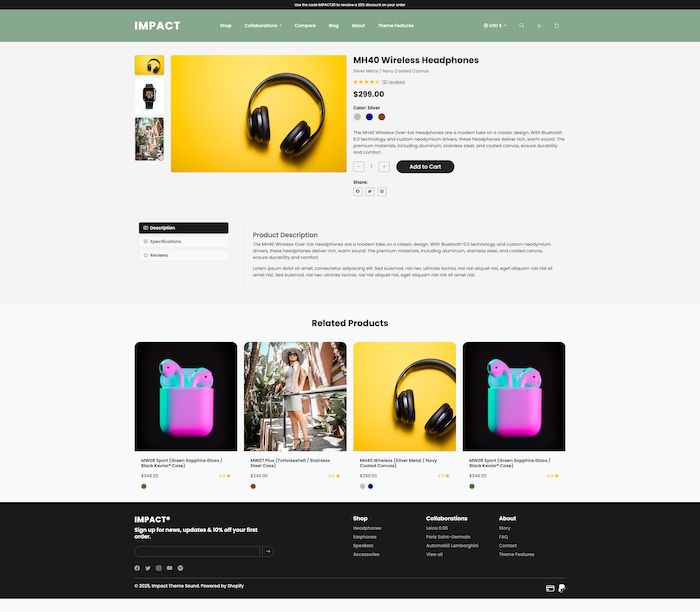
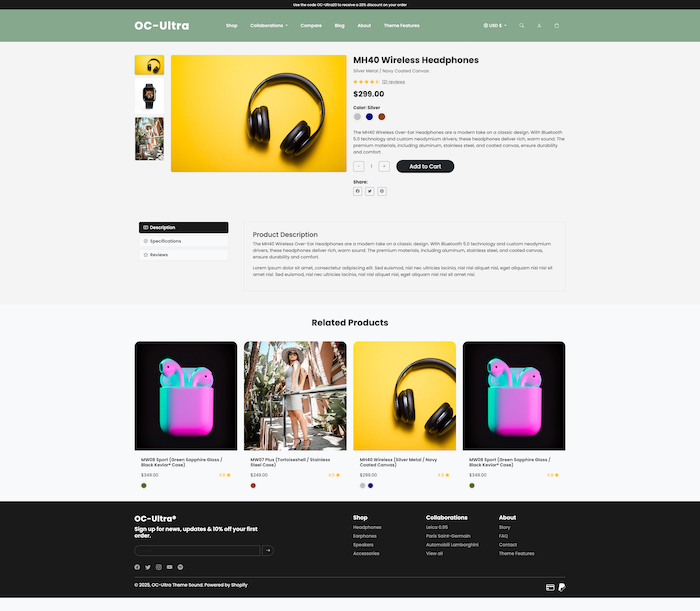
images updated , oc ultra mentioned

diff --git a/category.html b/category.html
@@ -3,7 +3,7 @@
 <head>
     <meta charset="UTF-8">
     <meta name="viewport" content="width=device-width, initial-scale=1.0">
-    <title>Impact - Category</title>
+    <title>OC-Ultra - Category</title>
     <link href="https://cdn.jsdelivr.net/npm/bootstrap@5.3.0-alpha1/dist/css/bootstrap.min.css" rel="stylesheet">
     <link rel="stylesheet" href="https://cdn.jsdelivr.net/npm/bootstrap-icons@1.10.5/font/bootstrap-icons.css">
     <link rel="stylesheet" href="css/style.css">
@@ -12,14 +12,14 @@
 
     <!-- Top Bar -->
     <div class="top-bar text-center text-white py-2">
-        <p class="mb-0">Use the code IMPACT20 to receive a 20% discount on your order</p>
+        <p class="mb-0">Use the code OC-Ultra20 to receive a 20% discount on your order</p>
     </div>
 
     <div class="hero-container">
         <!-- Header -->
         <header class="navbar navbar-expand-lg navbar-dark">
             <div class="container">
-                <a class="navbar-brand" href="#">IMPACT</a>
+                <a class="navbar-brand" href="#">OC-Ultra</a>
                 <button class="navbar-toggler" type="button" data-bs-toggle="collapse" data-bs-target="#navbarNav" aria-controls="navbarNav" aria-expanded="false" aria-label="Toggle navigation">
                     <span class="navbar-toggler-icon"></span>
                 </button>
@@ -343,7 +343,7 @@
         <div class="container">
             <div class="row">
                 <div class="col-md-4">
-                    <h3>IMPACT®</h3>
+                    <h3>OC-Ultra®</h3>
                     <h5>Sign up for news, updates & 10% off your first order.</h5>
                     <form class="d-flex mt-4">
                         <input class="form-control me-2" type="email" placeholder="E-mail" aria-label="E-mail">
@@ -388,7 +388,7 @@
             <hr>
             <div class="row">
                 <div class="col-md-6">
-                    <p>&copy; 2025, Impact Theme Sound. Powered by Shopify</p>
+                    <p>&copy; 2025, OC-Ultra Theme Sound. Powered by Shopify</p>
                 </div>
                 <div class="col-md-6 text-md-end">
                     <div class="payment-icons">

diff --git a/index.html b/index.html
@@ -3,7 +3,7 @@
 <head>
     <meta charset="UTF-8">
     <meta name="viewport" content="width=device-width, initial-scale=1.0">
-    <title>Impact</title>
+    <title>OC-Ultra</title>
     <link href="https://cdn.jsdelivr.net/npm/bootstrap@5.3.0-alpha1/dist/css/bootstrap.min.css" rel="stylesheet">
     <link rel="stylesheet" href="https://cdn.jsdelivr.net/npm/bootstrap-icons@1.10.5/font/bootstrap-icons.css">
     <link rel="stylesheet" href="css/style.css">
@@ -12,14 +12,14 @@
 
     <!-- Top Bar -->
     <div class="top-bar text-center text-white py-2">
-        <p class="mb-0">Use the code IMPACT20 to receive a 20% discount on your order</p>
+        <p class="mb-0">Use the code OC-Ultra20 to receive a 20% discount on your order</p>
     </div>
 
     <div class="hero-container home-hero-container">
         <!-- Header -->
         <header class="navbar navbar-expand-lg navbar-dark">
             <div class="container">
-                <a class="navbar-brand" href="#">IMPACT</a>
+                <a class="navbar-brand" href="#">OC-Ultra</a>
                 <button class="navbar-toggler" type="button" data-bs-toggle="collapse" data-bs-target="#navbarNav" aria-controls="navbarNav" aria-expanded="false" aria-label="Toggle navigation">
                     <span class="navbar-toggler-icon"></span>
                 </button>
@@ -507,7 +507,7 @@
         <div class="container">
             <div class="row">
                 <div class="col-md-4">
-                    <h3>IMPACT®</h3>
+                    <h3>OC-Ultra®</h3>
                     <h5>Sign up for news, updates & 10% off your first order.</h5>
                     <form class="d-flex mt-4">
                         <input class="form-control me-2" type="email" placeholder="E-mail" aria-label="E-mail">
@@ -552,7 +552,7 @@
             <hr>
             <div class="row">
                 <div class="col-md-6">
-                    <p>&copy; 2025, Impact Theme Sound. Powered by Shopify</p>
+                    <p>&copy; 2025, OC-Ultra Theme Sound. Powered by Shopify</p>
                 </div>
                 <div class="col-md-6 text-md-end">
                     <div class="payment-icons">

diff --git a/product.html b/product.html
@@ -3,7 +3,7 @@
 <head>
     <meta charset="UTF-8">
     <meta name="viewport" content="width=device-width, initial-scale=1.0">
-    <title>Impact - Product</title>
+    <title>OC-Ultra - Product</title>
     <link href="https://cdn.jsdelivr.net/npm/bootstrap@5.3.0-alpha1/dist/css/bootstrap.min.css" rel="stylesheet">
     <link rel="stylesheet" href="https://cdn.jsdelivr.net/npm/bootstrap-icons@1.10.5/font/bootstrap-icons.css">
     <link rel="stylesheet" href="css/style.css">
@@ -12,14 +12,14 @@
 
     <!-- Top Bar -->
     <div class="top-bar text-center text-white py-2">
-        <p class="mb-0">Use the code IMPACT20 to receive a 20% discount on your order</p>
+        <p class="mb-0">Use the code OC-Ultra20 to receive a 20% discount on your order</p>
     </div>
 
     <div class="hero-container">
         <!-- Header -->
         <header class="navbar navbar-expand-lg navbar-dark">
             <div class="container">
-                <a class="navbar-brand" href="#">IMPACT</a>
+                <a class="navbar-brand" href="#">OC-Ultra</a>
                 <button class="navbar-toggler" type="button" data-bs-toggle="collapse" data-bs-target="#navbarNav" aria-controls="navbarNav" aria-expanded="false" aria-label="Toggle navigation">
                     <span class="navbar-toggler-icon"></span>
                 </button>
@@ -349,7 +349,7 @@
         <div class="container">
             <div class="row">
                 <div class="col-md-4">
-                    <h3>IMPACT®</h3>
+                    <h3>OC-Ultra®</h3>
                     <h5>Sign up for news, updates & 10% off your first order.</h5>
                     <form class="d-flex mt-4">
                         <input class="form-control me-2" type="email" placeholder="E-mail" aria-label="E-mail">
@@ -394,7 +394,7 @@
             <hr>
             <div class="row">
                 <div class="col-md-6">
-                    <p>&copy; 2025, Impact Theme Sound. Powered by Shopify</p>
+                    <p>&copy; 2025, OC-Ultra Theme Sound. Powered by Shopify</p>
                 </div>
                 <div class="col-md-6 text-md-end">
                     <div class="payment-icons">

diff --git a/README.md b/README.md
@@ -1,8 +1,8 @@
-# Opencart Impact Theme
+# Opencart OC-Ultra Theme
 
 ## Modern & Responsive E-commerce Theme for Opencart
 
-Impact is a cutting-edge Opencart theme designed to provide a sleek, modern, and highly responsive shopping experience. Built with a focus on user experience and aesthetic appeal, this theme is perfect for any online store looking to make a strong impression.
+OC-Ultra is a cutting-edge Opencart theme designed to provide a sleek, modern, and highly responsive shopping experience. Built with a focus on user experience and aesthetic appeal, this theme is perfect for any online store looking to make a strong impression.
 
 ## Features
 
